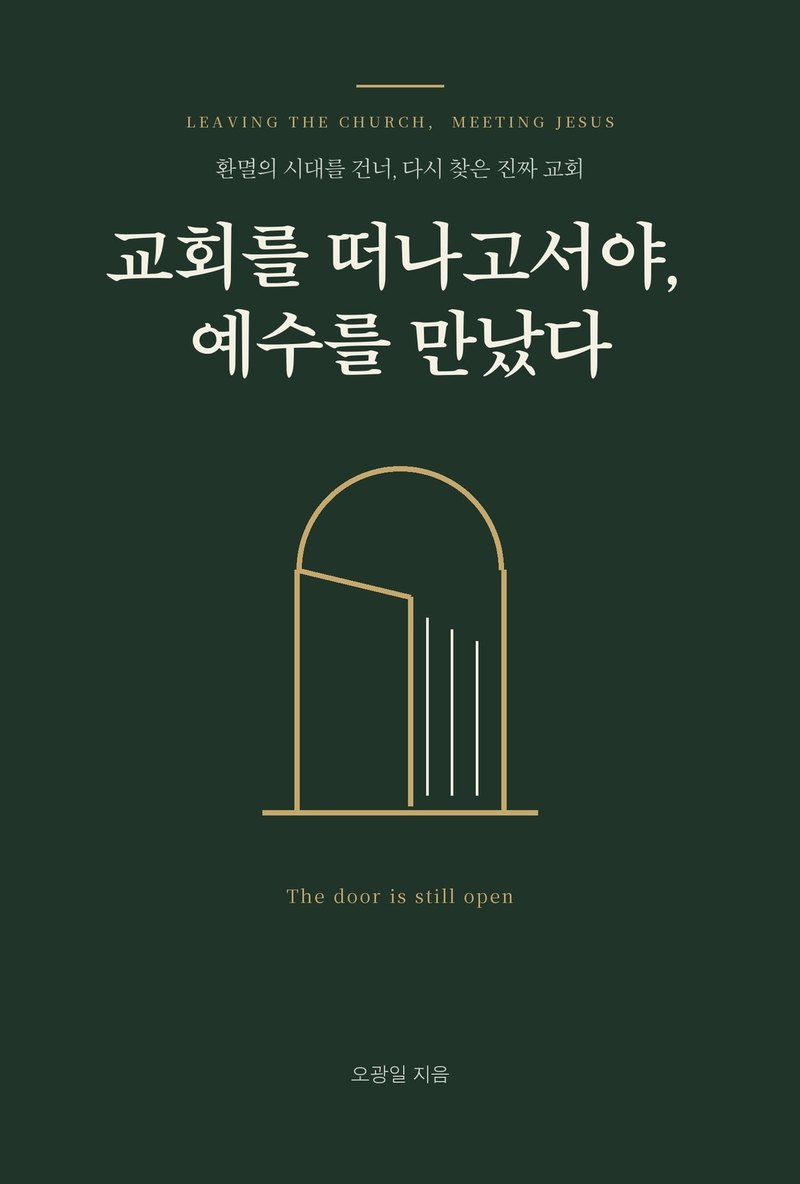
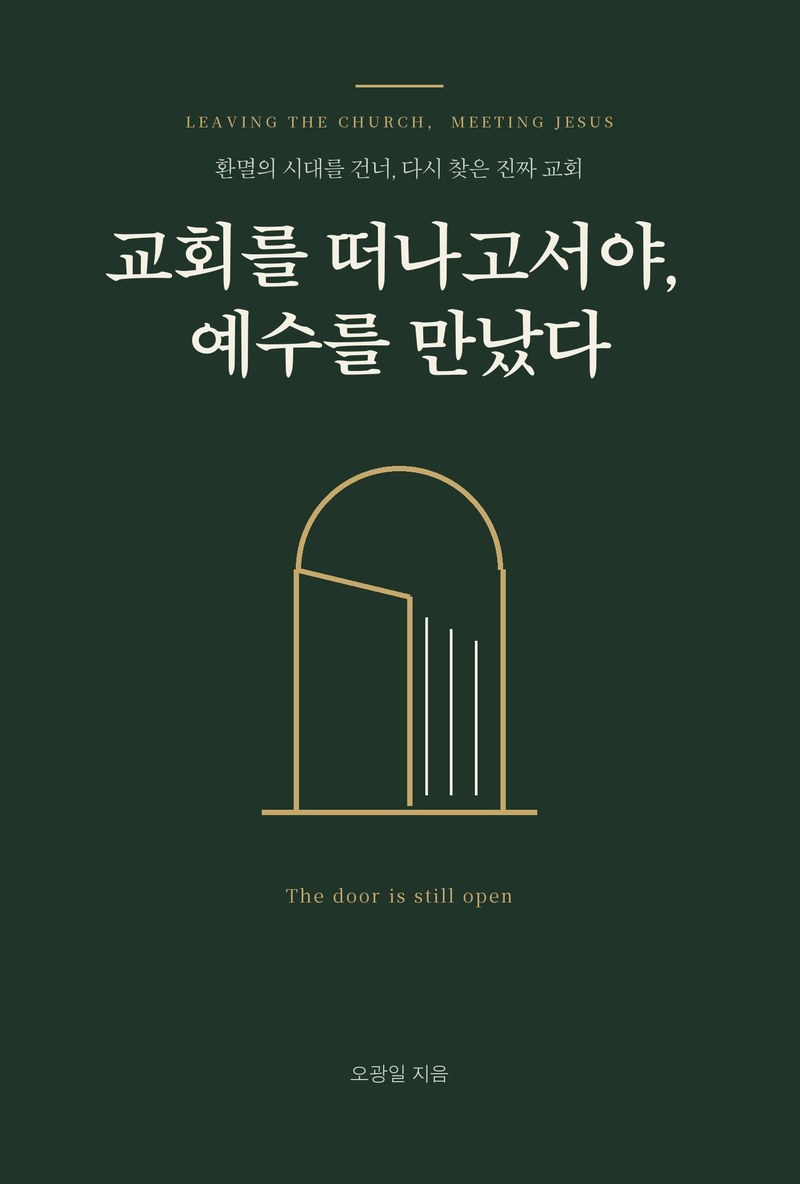
저자의 책: 메인 상단 배치 + 독립 1차 메뉴 + 정본 표지 적용
- 메뉴 노출 수정(근본 원인): 메뉴 실제 소스는 content/site.json의 nav이고
  site-header/section-sidenav의 배열은 첫 프레임용 폴백이라 덮어써졌음
  → site.json nav에 '저자의 책'을 독립 1차 메뉴로 추가(스토어 뒤),
    폴백 3곳(site-header.js·section-sidenav.js·index.html DEFAULT_MENU) 동기화,
    '소개' 하위에 넣었던 항목은 제거
- 메인 섹션을 동그라미 바로가기 '위'로 이동 + 재구성:
  크림 밴드 배경, 표지 확대(92→142px)·세로 카드, 판매처 직결 버튼
  (교회=종이책/전자책, 엄마향기=종이책), '책 소개 자세히 보기' 링크 분리
- 표지를 정본 PDF의 앞표지로 교체: 날개 포함 전체 펼침에서 앞표지 패널만
  크롭(교회 127×188mm, 엄마향기 148×210mm) 300DPI→800px
- 『엄마 향기』 분류를 표지 표기대로 '장편소설(실화 바탕)'로 정정, 부제 반영
- 캐시 갱신(sw v161, header/sidenav 쿼리 전 페이지 통일)

diff --git a/index.html b/index.html
@@ -346,6 +346,51 @@
     </div>
   </div>
 
+  <!-- ===== 저자의 책 (출간 도서 · 표지 크게 + 판매처 직결) ===== -->
+  <section id="books" class="border-b border-ink/8 py-10 md:py-14" style="background:#f7f4ed">
+    <div class="max-w-5xl mx-auto px-5">
+      <div class="text-center mb-7 md:mb-9">
+        <p class="text-gold text-[11px] font-bold tracking-[0.28em] uppercase">Books</p>
+        <h2 class="text-xl md:text-2xl font-bold leading-snug mt-1.5">저자가 쓴 책</h2>
+        <p class="text-[13px] md:text-sm text-neutral-900/60 mt-2">강의로 다 담지 못한 이야기를, 책으로 만나실 수 있습니다</p>
+      </div>
+
+      <div class="grid sm:grid-cols-2 gap-4 md:gap-6 max-w-3xl mx-auto">
+        <!-- 교회를 떠나고서야, 예수를 만났다 -->
+        <div class="bg-white rounded-2xl p-5 md:p-6 text-center shadow-soft">
+          <a href="books.html#church" class="block group">
+            <img src="images/books/church.jpg" alt="교회를 떠나고서야, 예수를 만났다 표지" loading="lazy"
+                 class="w-[118px] md:w-[142px] mx-auto rounded-[3px] shadow-card group-hover:-translate-y-1 transition-transform"/>
+            <p class="font-bold text-[14.5px] md:text-[15.5px] leading-snug mt-4 group-hover:text-gold transition-colors">교회를 떠나고서야,<br class="hidden md:block"/> 예수를 만났다</p>
+          </a>
+          <p class="text-[12px] text-neutral-900/55 mt-2 leading-relaxed">교회를 세 번 떠났던 사람의 고백</p>
+          <div class="flex gap-2 mt-4">
+            <a href="https://bookk.co.kr/bookStore/6a58ffb7518c404ea3b94c33" target="_blank" rel="noopener"
+               class="flex-1 bg-gold text-white text-[12px] font-bold rounded-lg py-2.5 hover:opacity-90 transition">종이책 구매</a>
+            <a href="https://www.yes24.com/product/goods/194508906" target="_blank" rel="noopener"
+               class="flex-1 bg-white text-ink border border-ink/15 text-[12px] font-bold rounded-lg py-2.5 hover:border-gold/60 hover:text-gold transition">전자책 구매</a>
+          </div>
+          <a href="books.html#church" class="inline-block text-[11.5px] text-gold font-semibold mt-3 hover:underline">책 소개 자세히 보기 →</a>
+        </div>
+
+        <!-- 엄마 향기 -->
+        <div class="bg-white rounded-2xl p-5 md:p-6 text-center shadow-soft">
+          <a href="books.html#mom" class="block group">
+            <img src="images/books/mom.jpg" alt="엄마 향기 표지" loading="lazy"
+                 class="w-[118px] md:w-[142px] mx-auto rounded-[3px] shadow-card group-hover:-translate-y-1 transition-transform"/>
+            <p class="font-bold text-[14.5px] md:text-[15.5px] leading-snug mt-4 group-hover:text-gold transition-colors">엄마 향기</p>
+          </a>
+          <p class="text-[12px] text-neutral-900/55 mt-2 leading-relaxed">이해할 수 없는 사람을 계속 사랑하는 일에 관하여</p>
+          <div class="flex gap-2 mt-4">
+            <a href="https://bookk.co.kr/bookStore/6a622e3fd942b1c7dbeb5ab3" target="_blank" rel="noopener"
+               class="flex-1 bg-gold text-white text-[12px] font-bold rounded-lg py-2.5 hover:opacity-90 transition">종이책 구매</a>
+          </div>
+          <a href="books.html#mom" class="inline-block text-[11.5px] text-gold font-semibold mt-3 hover:underline">책 소개 자세히 보기 →</a>
+        </div>
+      </div>
+    </div>
+  </section>
+
   <!-- ===== 주요 바로가기 (메가스터디식 원형 아이콘 퀵링크) — 대표 시리즈 바로 아래 ===== -->
   <section class="bg-paper border-b border-ink/8 py-7 md:py-9">
     <div class="max-w-5xl mx-auto px-5">
@@ -381,54 +426,6 @@
         <a href="support.html" class="group flex flex-col items-center gap-2">
           <span class="w-14 h-14 rounded-full bg-pink-50 text-pink-500 flex items-center justify-center group-hover:-translate-y-0.5 group-hover:shadow-soft transition"><svg viewBox="0 0 24 24" fill="none" class="w-6 h-6"><path d="M12 20s-7-4.35-7-9.5A3.5 3.5 0 0 1 12 7a3.5 3.5 0 0 1 7 3.5C19 15.65 12 20 12 20z" stroke="currentColor" stroke-width="1.6" stroke-linejoin="round"/></svg></span>
           <span class="text-[12px] font-semibold text-neutral-900/80 leading-tight">후원</span>
-        </a>
-      </div>
-    </div>
-  </section>
-
-  <!-- ===== 저자의 책 (출간 도서 소개 · 구매 연결) ===== -->
-  <section id="books" class="bg-white border-b border-ink/8 py-11 md:py-14">
-    <div class="max-w-5xl mx-auto px-5">
-      <div class="flex flex-wrap items-end justify-between gap-3 mb-7">
-        <div>
-          <p class="text-gold text-[11px] font-bold tracking-[0.3em] uppercase mb-2">Books by 오광일</p>
-          <h2 class="text-xl md:text-2xl font-bold leading-snug">저자가 쓴 책</h2>
-          <p class="text-sm text-neutral-900/60 mt-2">강의로 다 담지 못한 이야기를, 책으로 만나실 수 있습니다.</p>
-        </div>
-        <a href="books.html" class="text-sm font-bold text-gold hover:underline shrink-0">전체 보기 →</a>
-      </div>
-
-      <div class="grid sm:grid-cols-2 gap-5">
-        <!-- 교회를 떠나고서야, 예수를 만났다 -->
-        <a href="books.html#church" class="group flex gap-4 rounded-2xl border border-ink/10 bg-paper/60 p-4 hover:border-gold/50 hover:shadow-soft transition">
-          <img src="images/books/church.jpg" alt="교회를 떠나고서야, 예수를 만났다 표지" loading="lazy"
-               class="w-[92px] sm:w-[104px] shrink-0 rounded-lg shadow-md object-cover self-start"/>
-          <span class="flex-1 min-w-0 flex flex-col">
-            <span class="inline-flex w-fit text-[10.5px] font-bold text-emerald-700 bg-emerald-50 rounded-full px-2 py-0.5 mb-1.5">기독교 에세이</span>
-            <span class="block font-bold text-[15.5px] leading-snug group-hover:text-gold transition-colors">교회를 떠나고서야, 예수를 만났다</span>
-            <span class="block text-[12px] text-neutral-900/55 mt-1">환멸의 시대를 건너, 다시 찾은 진짜 교회</span>
-            <span class="block text-[12.5px] text-neutral-900/70 leading-relaxed mt-2.5">교회를 세 번 떠났던 사람의 고백. 상처받고 지쳐 교회 문을 나선 당신에게 건네는 이야기.</span>
-            <span class="mt-auto pt-3 flex items-center gap-1.5">
-              <span class="text-[11px] font-bold text-white bg-gold rounded-lg px-2.5 py-1.5">구매하러 가기</span>
-              <span class="text-[11px] text-neutral-900/45">종이책 · 전자책</span>
-            </span>
-          </span>
-        </a>
-
-        <!-- 엄마 향기 -->
-        <a href="books.html#mom" class="group flex gap-4 rounded-2xl border border-ink/10 bg-paper/60 p-4 hover:border-gold/50 hover:shadow-soft transition">
-          <img src="images/books/mom.jpg" alt="엄마 향기 표지" loading="lazy"
-               class="w-[92px] sm:w-[104px] shrink-0 rounded-lg shadow-md object-cover self-start"/>
-          <span class="flex-1 min-w-0 flex flex-col">
-            <span class="inline-flex w-fit text-[10.5px] font-bold text-rose-600 bg-rose-50 rounded-full px-2 py-0.5 mb-1.5">에세이 · 실화 소설</span>
-            <span class="block font-bold text-[15.5px] leading-snug group-hover:text-gold transition-colors">엄마 향기</span>
-            <span class="block text-[12px] text-neutral-900/55 mt-1">The Scent of My Mother</span>
-            <span class="block text-[12.5px] text-neutral-900/70 leading-relaxed mt-2.5">홀로 삼남매를 키운 어머니, 그 애증의 세월. 아무리 말해도 닿지 않는 부모를 둔 당신에게.</span>
-            <span class="mt-auto pt-3 flex items-center gap-1.5">
-              <span class="text-[11px] font-bold text-white bg-gold rounded-lg px-2.5 py-1.5">구매하러 가기</span>
-              <span class="text-[11px] text-neutral-900/45">종이책</span>
-            </span>
-          </span>
         </a>
       </div>
     </div>
@@ -1230,6 +1227,11 @@
         { label:'선물·후원 좌석', href:'gift.html' },
         { label:'고객센터(주문·배송·반품)', href:'store-help.html' },
         { label:'내 구매·자료', href:'mylearning.html' }
+      ]},
+      { label:'저자의 책', href:'books.html', children:[
+        { label:'저자의 책 전체', href:'books.html' },
+        { label:'교회를 떠나고서야, 예수를 만났다', href:'books.html#church' },
+        { label:'엄마 향기', href:'books.html#mom' }
       ]},
       { label:'아카데미 인증과정', href:'academy.html', children:[
         { label:'과정 소개', href:'academy.html' },

diff --git a/books.html b/books.html
@@ -3,8 +3,8 @@
 <head>
   <meta charset="UTF-8" />
   <script src="/content-loader.js?v=20260703f"></script>
-  <script src="/site-header.js?v=20260728a"></script>
-  <script src="/section-sidenav.js?v=13"></script>
+  <script src="/site-header.js?v=20260729a"></script>
+  <script src="/section-sidenav.js?v=14"></script>
   <meta name="viewport" content="width=device-width, initial-scale=1.0" />
   <title>저자의 책 — 오광일 출간 도서 · BIBLY 바이블 인사이트</title>
   <meta name="description" content="오광일 저자의 출간 도서 — 『교회를 떠나고서야, 예수를 만났다』, 『엄마 향기』. 책 소개와 구매 안내." />
@@ -126,16 +126,17 @@
                class="w-[180px] md:w-full mx-auto rounded-xl shadow-card"/>
           <div class="mt-5 text-xs">
             <div class="metaRow"><b>지은이</b><span>오광일</span></div>
-            <div class="metaRow"><b>분야</b><span>에세이 · 실화를 바탕으로 한 이야기</span></div>
+            <div class="metaRow"><b>분야</b><span>장편소설 (실화를 바탕으로 한 이야기)</span></div>
             <div class="metaRow"><b>구성</b><span>여섯 계절 · 230쪽</span></div>
             <div class="metaRow"><b>펴낸곳</b><span>부크크</span></div>
           </div>
         </div>
 
         <div>
-          <span class="inline-flex text-[11px] font-bold text-rose-600 bg-rose-50 rounded-full px-2.5 py-1 mb-3">에세이 · 실화 소설</span>
+          <span class="inline-flex text-[11px] font-bold text-rose-600 bg-rose-50 rounded-full px-2.5 py-1 mb-3">장편소설 · 실화 바탕</span>
           <h2 class="text-xl md:text-2xl font-bold leading-snug">엄마 향기</h2>
-          <p class="text-neutral-900/55 text-sm mt-2 font-serifkr">The Scent of My Mother</p>
+          <p class="text-neutral-900/55 text-sm mt-2">이해할 수 없는 사람을 계속 사랑하는 일에 관하여</p>
+          <p class="text-neutral-900/40 text-[12.5px] mt-1 font-serifkr">The Scent of My Mother</p>
 
           <div class="quote">
             아무리 말해도 닿지 않는 부모를 둔<br/>

diff --git a/section-sidenav.js b/section-sidenav.js
@@ -11,7 +11,6 @@
   var FALLBACK = [
     { label:'소개', href:'about.html', children:[
       { label:'우리의 사명·소개', href:'about.html' }, { label:'강사 소개', href:'about.html#instructor' },
-      { label:'저자의 책', href:'books.html' },
       { label:'설립 이야기 · 간증', href:'about.html#story' }, { label:'1기 창립 멤버', href:'founding.html' } ]},
     { label:'강의·커리큘럼', href:'curriculum.html', children:[
       { label:'전체 커리큘럼', href:'curriculum.html' }, { label:'나에게 맞는 강의 찾기', href:'find.html' },
@@ -31,6 +30,10 @@
     { label:'스토어', href:'booklet.html', children:[
       { label:'PDF 책자·이용권', href:'booklet.html' }, { label:'선물·후원 좌석', href:'gift.html' },
       { label:'고객센터(주문·배송·반품)', href:'store-help.html' }, { label:'내 구매·자료', href:'mylearning.html' } ]},
+    { label:'저자의 책', href:'books.html', children:[
+      { label:'저자의 책 전체', href:'books.html' },
+      { label:'교회를 떠나고서야, 예수를 만났다', href:'books.html#church' },
+      { label:'엄마 향기', href:'books.html#mom' } ]},
     { label:'아카데미 인증과정', href:'academy.html', children:[
       { label:'과정 소개', href:'academy.html' }, { label:'급수 패키지·수강료', href:'academy.html#packages' },
       { label:'등록 신청', href:'academy.html#apply' } ]}

diff --git a/site-header.js b/site-header.js
@@ -15,7 +15,6 @@
       { label:'우리의 사명·소개', href:'about.html' },
       { label:'스터디 가이드', href:'guide.html' },
       { label:'강사 소개', href:'about.html#instructor' },
-      { label:'저자의 책', href:'books.html' },
       { label:'설립 이야기 · 간증', href:'about.html#story' },
       { label:'1기 창립 멤버', href:'founding.html' }
     ]},
@@ -64,6 +63,11 @@
       { label:'선물·후원 좌석', href:'gift.html' },
       { label:'고객센터(주문·배송·반품)', href:'store-help.html' },
       { label:'내 구매·자료', href:'mylearning.html' }
+    ]},
+    { label:'저자의 책', href:'books.html', children:[
+      { label:'저자의 책 전체', href:'books.html' },
+      { label:'교회를 떠나고서야, 예수를 만났다', href:'books.html#church' },
+      { label:'엄마 향기', href:'books.html#mom' }
     ]},
     { label:'아카데미 인증과정', href:'academy.html', children:[
       { label:'과정 소개', href:'academy.html' },

diff --git a/about.html b/about.html
@@ -3,8 +3,8 @@
 <head>
   <meta charset="UTF-8" />
   <script src="/content-loader.js?v=20260703f"></script>
-  <script src="/site-header.js?v=20260728a"></script>
-  <script src="/section-sidenav.js?v=11"></script>
+  <script src="/site-header.js?v=20260729a"></script>
+  <script src="/section-sidenav.js?v=14"></script>
   <meta name="viewport" content="width=device-width, initial-scale=1.0" />
   <title>오광일 전도자 소개 · 대표강사 간증 — 바이블 인사이트</title>
   <meta name="description" content="오광일의 인사이트 브리핑은 평신도가 성경을 스스로 읽고 시대를 분별하도록 돕는 온라인 신학 운동입니다. 우리의 사명·비전·핵심가치와 멤버십의 의미를 소개합니다." />

diff --git a/bible-english.html b/bible-english.html
@@ -3,8 +3,8 @@
 <head>
   <meta charset="UTF-8" />
   <script src="/content-loader.js?v=20260703f"></script>
-  <script src="/site-header.js?v=20260728a"></script>
-  <script src="/section-sidenav.js?v=11"></script>
+  <script src="/site-header.js?v=20260729a"></script>
+  <script src="/section-sidenav.js?v=14"></script>
   <meta name="viewport" content="width=device-width, initial-scale=1.0" />
   <title>바이블 잉글리시 · 성경으로 배우는 영어 — BIBLY 바이블 인사이트</title>
   <meta name="description" content="성경으로 영어를 배우는 바이블 잉글리시. 성경책·장을 골라 유닛별로 듣기·단어·어법·암송·연습 단계 학습. 발음(IPA)·쉬운 영어·토익/수능 어법까지." />

diff --git a/welcome.html b/welcome.html
@@ -3,8 +3,8 @@
 <head>
   <meta charset="UTF-8" />
   <script src="/content-loader.js?v=20260703f"></script>
-  <script src="/site-header.js?v=20260728a"></script>
-  <script src="/section-sidenav.js?v=11"></script>
+  <script src="/site-header.js?v=20260729a"></script>
+  <script src="/section-sidenav.js?v=14"></script>
   <meta name="viewport" content="width=device-width, initial-scale=1.0" />
   <title>천년왕국·종말론 무료 강의 시작 · 오광일의 인사이트 브리핑</title>
   <meta name="description" content="천년왕국·종말론·성경을 평신도도 스스로 읽고 분별하도록. 무료 공개 강의 + 「천년왕국 연대표·핵심 성구 암송노트」 무료 PDF 증정. 지금 시작하세요." />

diff --git a/curriculum-guide.html b/curriculum-guide.html
@@ -3,8 +3,8 @@
 <head>
   <meta charset="UTF-8" />
   <script src="/content-loader.js?v=20260703f"></script>
-  <script src="/site-header.js?v=20260728a"></script>
-  <script src="/section-sidenav.js?v=11"></script>
+  <script src="/site-header.js?v=20260729a"></script>
+  <script src="/section-sidenav.js?v=14"></script>
   <meta name="viewport" content="width=device-width, initial-scale=1.0" />
   <title>커리큘럼 소개 · 학습 로드맵 — BIBLY 바이블 인사이트</title>
   <meta name="description" content="바이블 인사이트 스쿨의 전체 강의 시리즈를 학습 단계(트랙)별로 소개합니다. 무엇을 어떤 순서로 배우는지, 각 시리즈가 어떤 내용인지 한눈에 안내합니다." />

diff --git a/find.html b/find.html
@@ -3,8 +3,8 @@
 <head>
   <meta charset="UTF-8" />
   <script src="/content-loader.js?v=20260703f"></script>
-  <script src="/site-header.js?v=20260728a"></script>
-  <script src="/section-sidenav.js?v=11"></script>
+  <script src="/site-header.js?v=20260729a"></script>
+  <script src="/section-sidenav.js?v=14"></script>
   <meta name="viewport" content="width=device-width, initial-scale=1.0" />
   <title>성경 해석 능력 진단 — BIBLY 바이블 인사이트</title>
   <meta name="description" content="자기보고 6문항 + 실제 채점 12문항으로 성경 지식·본문 이해·해석·교리 분별 등 6가지 역량을 측정해, 심리검사형 리포트와 나에게 맞는 학습 설계를 제공합니다." />

diff --git a/founding.html b/founding.html
@@ -3,8 +3,8 @@
 <head>
   <meta charset="UTF-8" />
   <script src="/content-loader.js?v=20260703f"></script>
-  <script src="/site-header.js?v=20260728a"></script>
-  <script src="/section-sidenav.js?v=11"></script>
+  <script src="/site-header.js?v=20260729a"></script>
+  <script src="/section-sidenav.js?v=14"></script>
   <meta name="viewport" content="width=device-width, initial-scale=1.0" />
   <title>1기 창립멤버 모집 · 20% 평생할인 — 바이블 인사이트</title>
   <meta name="description" content="BIBLY 1기 창립 멤버를 모십니다. 1년간 전 강의·전 책자 무료, 평생 남는 창립 멤버 번호와 뱃지. 곁의 한 사람에게 말씀을 전하는 함께 세우는 멤버십." />

diff --git a/guide.html b/guide.html
@@ -3,8 +3,8 @@
 <head>
   <meta charset="UTF-8" />
   <script src="/content-loader.js?v=20260703f"></script>
-  <script src="/site-header.js?v=20260728a"></script>
-  <script src="/section-sidenav.js?v=11"></script>
+  <script src="/site-header.js?v=20260729a"></script>
+  <script src="/section-sidenav.js?v=14"></script>
   <meta name="viewport" content="width=device-width, initial-scale=1.0" />
   <title>스터디 가이드 · 사이트로 성경공부 하는 법 — BIBLY 바이블 인사이트</title>
   <meta name="description" content="바이블 인사이트를 200% 활용해 성경을 공부하는 법. 목적별 학습 루트, 코너별 활용법, 추천 4주 스터디 플랜을 한 곳에서 안내합니다." />

diff --git a/counsel.html b/counsel.html
@@ -3,8 +3,8 @@
 <head>
   <meta charset="UTF-8" />
   <script src="/content-loader.js?v=20260703f"></script>
-  <script src="/site-header.js?v=20260728a"></script>
-  <script src="/section-sidenav.js?v=11"></script>
+  <script src="/site-header.js?v=20260729a"></script>
+  <script src="/section-sidenav.js?v=14"></script>
   <meta name="viewport" content="width=device-width, initial-scale=1.0" />
   <title>신앙상담 — BIBLY 바이블 인사이트 | 지친 마음을 위한 1:1 비공개 상담</title>
   <meta name="description" content="지친 마음, 신앙의 고민을 대표강사와 1:1로 비공개 상담하세요. 전화·이메일·카카오톡 중 편한 방식으로. 철저한 비밀 보장." />
